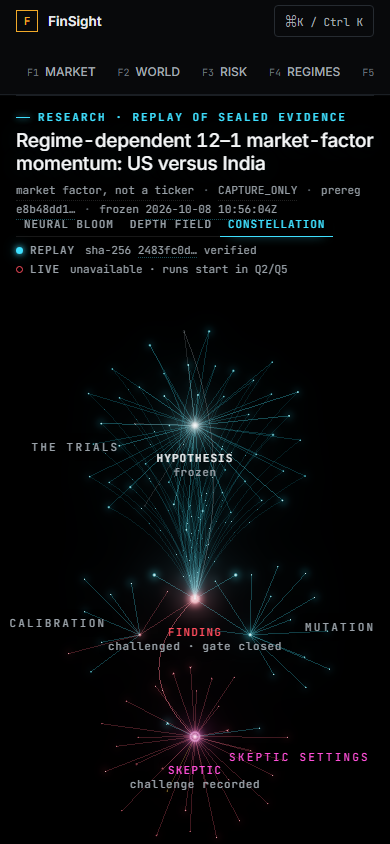
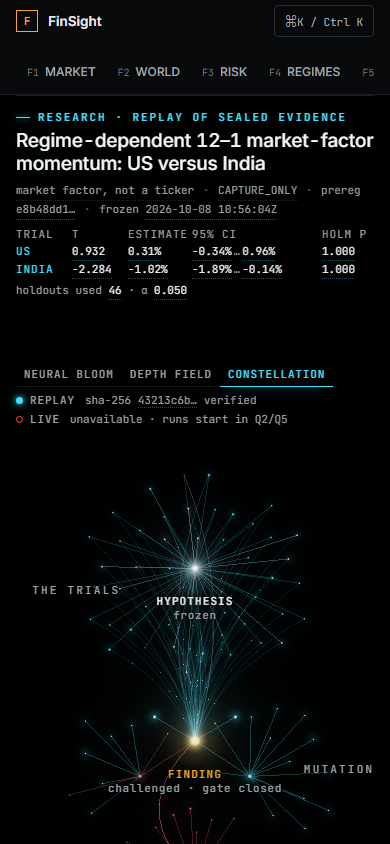
docs(ui): regenerate Research screenshots after the integrity and design fixes
Bloom now shows t as radius with the critical ring, the readout of the
primary trials sits under the title, and the 390 px layout keeps the
readout and the look tabs apart.

diff --git a/frontend-v2/src/research/ResearchPage.tsx b/frontend-v2/src/research/ResearchPage.tsx
@@ -316,7 +316,7 @@ function Workspace({
   const insets: Insets = useMemo(
     () =>
       narrow
-        ? { top: 292, bottom: 150, left: 8, right: 8 }
+        ? { top: 340, bottom: 150, left: 8, right: 8 }
         : { top: 214, bottom: 150, left: 24, right: 24 },
     [narrow],
   );
@@ -682,7 +682,7 @@ function Readout({ graph, look }: { graph: ResearchGraph; look: Look }) {
   return (
     <div className="rs-readout" role="table" aria-label="Primary trials, sealed values">
       <div className="rs-ro-row rs-ro-head" role="row" data-copy>
-        <span role="columnheader">primary</span>
+        <span role="columnheader">trial</span>
         <span role="columnheader">t</span>
         <span role="columnheader">estimate</span>
         <span role="columnheader">95% CI</span>

diff --git a/frontend-v2/src/research/research.css b/frontend-v2/src/research/research.css
@@ -677,7 +677,7 @@
 /* Narrow: overlays become sheets, the rail folds to two lines. ------------------------- */
 @media (max-width: 700px) {
   .rs {
-    height: 1000px;
+    height: 1040px;
     flex: none;
   }
   .rs-mast {
@@ -689,7 +689,7 @@
     font-size: 19px;
   }
   .rs-status {
-    top: 214px;
+    top: 268px;
     right: 16px;
     left: 16px;
     align-items: flex-start;
@@ -757,7 +757,7 @@
     overflow-x: auto;
   }
   .rs-ro-row {
-    grid-template-columns: 44px 44px 58px 120px 50px 34px 46px 50px;
+    grid-template-columns: 50px 50px 58px 124px 46px 30px 44px 46px;
     gap: 6px;
   }
   .rs-ro-foot {
